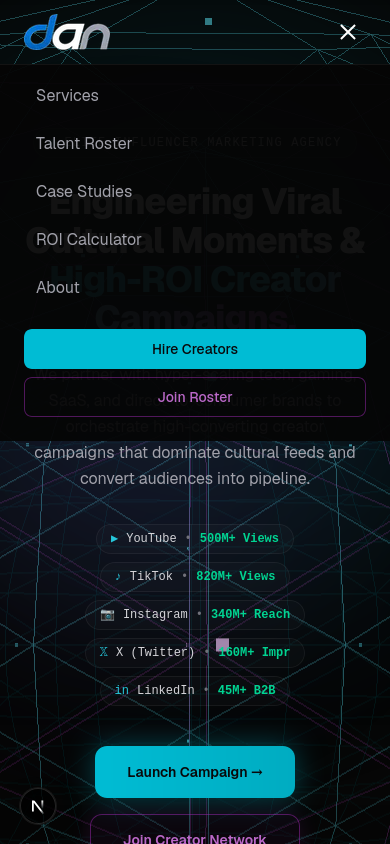
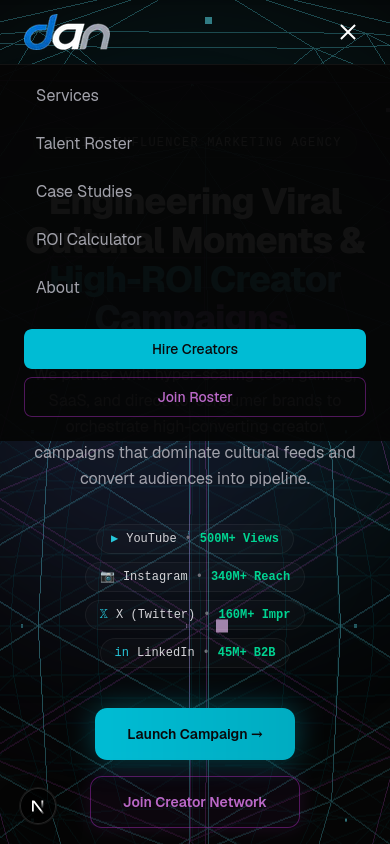
content: remove TikTok from all platform references, forms, and copy

diff --git a/src/components/CreatorApplicationModal.tsx b/src/components/CreatorApplicationModal.tsx
@@ -23,7 +23,6 @@ export default function CreatorApplicationModal({ isOpen, onClose }: CreatorAppl
     instagram: "",
     x: "",
     linkedin: "",
-    tiktok: "",
     niche: "Tech & AI",
     audienceDemographics: "",
     mediaKitUrl: "",
@@ -59,7 +58,6 @@ export default function CreatorApplicationModal({ isOpen, onClose }: CreatorAppl
             instagram: formData.instagram || undefined,
             twitter: formData.x || undefined,
             linkedin: formData.linkedin || undefined,
-            tiktok: formData.tiktok || undefined,
           },
         }),
       });
@@ -263,20 +261,6 @@ export default function CreatorApplicationModal({ isOpen, onClose }: CreatorAppl
                           />
                         </div>
                         <div>
-                          <label htmlFor="creator-tiktok" className="text-xs font-semibold text-gray-300 mb-1 block">TikTok Handle</label>
-                          <input
-                            id="creator-tiktok"
-                            type="text"
-                            placeholder="@handle"
-                            value={formData.tiktok}
-                            onChange={(e) => handleChange("tiktok", e.target.value)}
-                            className={inputClasses}
-                          />
-                        </div>
-                      </div>
-
-                      <div className="grid gap-3 sm:grid-cols-2">
-                        <div>
                           <label htmlFor="creator-instagram" className="text-xs font-semibold text-gray-300 mb-1 block">Instagram Profile</label>
                           <input
                             id="creator-instagram"
@@ -287,6 +271,9 @@ export default function CreatorApplicationModal({ isOpen, onClose }: CreatorAppl
                             className={inputClasses}
                           />
                         </div>
+                      </div>
+
+                      <div className="grid gap-3 sm:grid-cols-2">
                         <div>
                           <label htmlFor="creator-x" className="text-xs font-semibold text-gray-300 mb-1 block">X / Twitter Handle</label>
                           <input
@@ -298,18 +285,17 @@ export default function CreatorApplicationModal({ isOpen, onClose }: CreatorAppl
                             className={inputClasses}
                           />
                         </div>
-                      </div>
-
-                      <div>
-                        <label htmlFor="creator-linkedin" className="text-xs font-semibold text-gray-300 mb-1 block">LinkedIn Profile (B2B Creators)</label>
-                        <input
-                          id="creator-linkedin"
-                          type="text"
-                          placeholder="linkedin.com/in/handle"
-                          value={formData.linkedin}
-                          onChange={(e) => handleChange("linkedin", e.target.value)}
-                          className={inputClasses}
-                        />
+                        <div>
+                          <label htmlFor="creator-linkedin" className="text-xs font-semibold text-gray-300 mb-1 block">LinkedIn Profile (B2B Creators)</label>
+                          <input
+                            id="creator-linkedin"
+                            type="text"
+                            placeholder="linkedin.com/in/handle"
+                            value={formData.linkedin}
+                            onChange={(e) => handleChange("linkedin", e.target.value)}
+                            className={inputClasses}
+                          />
+                        </div>
                       </div>
 
                       <div className="flex gap-3 pt-2">

diff --git a/src/components/CampaignShowcase.tsx b/src/components/CampaignShowcase.tsx
@@ -30,7 +30,7 @@ const campaigns: Campaign[] = [
     category: "Gaming & Esports",
     creatorFleet: "28 Top Gaming Streamers & YouTubers",
     headline: "Season Launch Creator Takeover",
-    deliverables: ["Dedicated YouTube Integrations", "Twitch Drops Activation", "TikTok Sound Trend Blitz"],
+    deliverables: ["Dedicated YouTube Integrations", "Twitch Drops Activation", "Reels Sound Trend Blitz"],
     results: {
       roas: "+420% ROAS",
       impressions: "18.4M Organic Views",
@@ -40,7 +40,7 @@ const campaigns: Campaign[] = [
     thumbnail: "https://images.unsplash.com/photo-1542751371-adc38448a05e?w=800&h=500&fit=crop",
     overview:
       "Orchestrated a synchronized 48-hour launch blitz across 28 tier-1 gaming creators. By combining custom Twitch Drops with dedicated YouTube gameplay deep dives, we drove unprecedented viral velocity and record player acquisition.",
-    platforms: ["YouTube", "Twitch", "TikTok"],
+    platforms: ["YouTube", "Twitch", "Instagram"],
   },
   {
     id: 2,
@@ -76,25 +76,25 @@ const campaigns: Campaign[] = [
     thumbnail: "https://images.unsplash.com/photo-1563986768609-322da13575f3?w=800&h=500&fit=crop",
     overview:
       "Replaced generic promo reads with bespoke narrative-driven sketches tailored to each creator's unique audience lore. Resulted in a 4.2x higher click-through rate compared to industry benchmarks.",
-    platforms: ["YouTube", "Instagram", "TikTok"],
+    platforms: ["YouTube", "Instagram", "LinkedIn"],
   },
   {
     id: 4,
     brand: "Notion",
     category: "Productivity & AI SaaS",
     creatorFleet: "35 Aesthetic & Workspace Creators",
-    headline: "TikTok & Reels Workspace Aesthetic Blitz",
+    headline: "Reels Workspace Aesthetic Blitz",
     deliverables: ["Template Distribution Blitz", "Before/After Workflow Reels", "UGC Spark Ads Whitelisting"],
     results: {
       roas: "+490% Attributed ROAS",
       impressions: "31.2M Video Views",
       conversions: "94,000 Template Downloads",
-      highlight: "Top 3 Most Shared Productivity App on TikTok",
+      highlight: "Top 3 Most Shared Productivity App on Instagram",
     },
     thumbnail: "https://images.unsplash.com/photo-1499750310107-5fef28a66643?w=800&h=500&fit=crop",
     overview:
       "Tapped into the 'aesthetic desk setup' cultural trend. Creators shared downloadable Notion life-organizer templates directly in bio links, converting casual scrollers into lifetime software subscribers.",
-    platforms: ["TikTok", "Instagram", "YouTube"],
+    platforms: ["Instagram", "LinkedIn", "YouTube"],
   },
   {
     id: 5,
@@ -111,8 +111,8 @@ const campaigns: Campaign[] = [
     },
     thumbnail: "https://images.unsplash.com/photo-1517838277536-f5f99be501cd?w=800&h=500&fit=crop",
     overview:
-      "Timed exclusive athlete capsule codes across 20 high-energy fitness creators on Instagram and TikTok right at the drop hour. Created an online frenzy that generated over $2.4M in tracked revenue within 24 hours.",
-    platforms: ["Instagram", "TikTok", "YouTube"],
+      "Timed exclusive athlete capsule codes across 20 high-energy fitness creators on Instagram and YouTube right at the drop hour. Created an online frenzy that generated over $2.4M in tracked revenue within 24 hours.",
+    platforms: ["Instagram", "LinkedIn", "YouTube"],
   },
 ];
 

diff --git a/src/app/layout.tsx b/src/app/layout.tsx
@@ -18,10 +18,10 @@ export const metadata: Metadata = {
     template: "%s | DAN SERVICES",
     default: "DAN SERVICES | Engineering Viral Cultural Moments & High-ROI Creator Campaigns",
   },
-  description: "DAN SERVICES is an elite, full-service Influencer Marketing Agency specializing in high-converting campaigns across YouTube, Instagram, X (Twitter), LinkedIn, and TikTok.",
+  description: "DAN SERVICES is an elite, full-service Influencer Marketing Agency specializing in high-converting campaigns across YouTube, Instagram, X (Twitter), and LinkedIn.",
   openGraph: {
     title: "DAN SERVICES | Engineering Viral Cultural Moments & High-ROI Creator Campaigns",
-    description: "DAN SERVICES is an elite, full-service Influencer Marketing Agency specializing in high-converting campaigns across YouTube, Instagram, X (Twitter), LinkedIn, and TikTok.",
+    description: "DAN SERVICES is an elite, full-service Influencer Marketing Agency specializing in high-converting campaigns across YouTube, Instagram, X (Twitter), and LinkedIn.",
     url: "https://www.danservices.in",
     siteName: "DAN SERVICES",
     images: [{ url: "/opengraph-image", width: 1200, height: 630, alt: "DAN SERVICES Logo" }],
@@ -34,7 +34,7 @@ const jsonLd = {
   name: "DAN SERVICES",
   url: "https://www.danservices.in",
   logo: "https://www.danservices.in/icon.png",
-  description: "DAN SERVICES is an elite, full-service Influencer Marketing Agency specializing in high-converting campaigns across YouTube, Instagram, X (Twitter), LinkedIn, and TikTok.",
+  description: "DAN SERVICES is an elite, full-service Influencer Marketing Agency specializing in high-converting campaigns across YouTube, Instagram, X (Twitter), and LinkedIn.",
   contactPoint: {
     "@type": "ContactPoint",
     contactType: "Customer Service",

diff --git a/src/components/ROICalculator.tsx b/src/components/ROICalculator.tsx
@@ -11,7 +11,7 @@ interface ROICalculatorProps {
 // references and does not need them as dependencies.
 const platformOptions = [
   { label: "YouTube", value: "youtube", icon: "▶" },
-  { label: "TikTok", value: "tiktok", icon: "♪" },
+  
   { label: "Instagram", value: "instagram", icon: "📷" },
   { label: "X / Twitter", value: "x", icon: "𝕏" },
   { label: "LinkedIn", value: "linkedin", icon: "in" },
@@ -35,7 +35,7 @@ const goalOptions = [
 export default function ROICalculator({ className = "" }: ROICalculatorProps) {
   const { openBrandModal } = useLeadModals();
   const [budget, setBudget] = useState(35000);
-  const [platforms, setPlatforms] = useState<string[]>(["youtube", "tiktok"]);
+  const [platforms, setPlatforms] = useState<string[]>(["youtube", "instagram"]);
   const [niche, setNiche] = useState<string>("saas");
   const [goal, setGoal] = useState<string>("sales");
 
@@ -45,7 +45,6 @@ export default function ROICalculator({ className = "" }: ROICalculatorProps) {
     const platformFactor = platforms.reduce((acc, p) => {
       switch (p) {
         case "youtube": return acc + 1.6;
-        case "tiktok": return acc + 2.1;
         case "instagram": return acc + 1.4;
         case "x": return acc + 1.0;
         case "linkedin": return acc + 0.85;

diff --git a/src/components/TalentRoster.tsx b/src/components/TalentRoster.tsx
@@ -44,7 +44,7 @@ const creators: Creator[] = [
     avatar: "https://images.unsplash.com/photo-1517841905240-472988babdf9?w=300&h=300&fit=crop&crop=faces",
     verified: true,
     platforms: [
-      { name: "TikTok", followers: "2.8M" },
+      
       { name: "Instagram", followers: "1.9M" },
     ],
     niche: "D2C & Lifestyle",
@@ -92,7 +92,7 @@ const creators: Creator[] = [
     avatar: "https://images.unsplash.com/photo-1500648767791-00dcc994a43e?w=300&h=300&fit=crop&crop=faces",
     verified: true,
     platforms: [
-      { name: "TikTok", followers: "3.6M" },
+      
       { name: "YouTube", followers: "1.8M" },
     ],
     niche: "Gaming",
@@ -109,7 +109,7 @@ const creators: Creator[] = [
     verified: true,
     platforms: [
       { name: "Instagram", followers: "2.4M" },
-      { name: "TikTok", followers: "1.6M" },
+      
     ],
     niche: "D2C & Lifestyle",
     engagementRate: 6.9,
@@ -152,7 +152,7 @@ export default function TalentRoster({ className = "" }: TalentRosterProps) {
     { label: "YouTube", value: "youtube" },
     { label: "Instagram", value: "instagram" },
     { label: "X / LinkedIn", value: "x" },
-    { label: "TikTok", value: "tiktok" },
+
   ];
 
   const nicheButtons = [

diff --git a/src/app/about/page.tsx b/src/app/about/page.tsx
@@ -23,7 +23,7 @@ export default function AboutPage() {
               </span>
             </h1>
             <p className="text-lg text-gray-400 max-w-3xl leading-relaxed">
-              DAN SERVICES is an elite, full-service Influencer Marketing Agency specializing in high-converting, high-impact campaigns across YouTube, TikTok, Instagram, X (Twitter), and LinkedIn.
+              DAN SERVICES is an elite, full-service Influencer Marketing Agency specializing in high-converting, high-impact campaigns across YouTube, Instagram, X (Twitter), and LinkedIn.
             </p>
           </div>
 
@@ -47,7 +47,7 @@ export default function AboutPage() {
                 },
                 {
                   title: "Algorithmic Velocity",
-                  desc: "We engineer release schedules to trigger YouTube and TikTok recommendation engines simultaneously, maximizing organic secondary lift.",
+                  desc: "We engineer release schedules to trigger YouTube recommendation engines with coordinated Reels drops simultaneously, maximizing organic secondary lift.",
                   icon: "⚡",
                 },
                 {

diff --git a/src/components/SiteFooter.tsx b/src/components/SiteFooter.tsx
@@ -31,7 +31,7 @@ export default function SiteFooter() {
               <Image src="/brand/dan-logo-dark.png" alt="dan" width={86} height={36} className="h-9 w-auto" />
             </div>
             <p className="text-sm text-gray-400 leading-relaxed max-w-sm">
-              Engineering viral cultural moments & high-ROI creator campaigns across YouTube, Instagram, X (Twitter), LinkedIn, and TikTok.
+              Engineering viral cultural moments & high-ROI creator campaigns across YouTube, Instagram, X (Twitter), and LinkedIn.
             </p>
             <div className="flex items-center gap-3 pt-2 text-xs font-mono text-gray-400">
               <span>NEW YORK</span>

diff --git a/src/components/Hero.tsx b/src/components/Hero.tsx
@@ -62,7 +62,6 @@ export default function Hero() {
   }, []);
   const platformBadges = [
     { platform: "YouTube", stat: "500M+ Views", icon: "▶", color: "hover:border-red-500/40" },
-    { platform: "TikTok", stat: "820M+ Views", icon: "♪", color: "hover:border-cyan-500/40" },
     { platform: "Instagram", stat: "340M+ Reach", icon: "📷", color: "hover:border-pink-500/40" },
     { platform: "X (Twitter)", stat: "160M+ Impr", icon: "𝕏", color: "hover:border-white/40" },
     { platform: "LinkedIn", stat: "45M+ B2B", icon: "in", color: "hover:border-blue-500/40" },

diff --git a/src/app/services/page.tsx b/src/app/services/page.tsx
@@ -4,7 +4,7 @@ import ServicesGrid from "@/components/ServicesGrid";
 
 export const metadata: Metadata = {
   title: "Services",
-  description: "Full-service influencer marketing capabilities: YouTube sponsorships, TikTok/Reels blitzes, B2B thought leadership, performance UGC, FTC compliance, and ROAS telemetry.",
+  description: "Full-service influencer marketing capabilities: YouTube sponsorships, Reels blitzes, B2B thought leadership, performance UGC, FTC compliance, and ROAS telemetry.",
 };
 
 export default function ServicesPage() {

diff --git a/src/app/case-studies/page.tsx b/src/app/case-studies/page.tsx
@@ -4,7 +4,7 @@ import CampaignShowcase from "@/components/CampaignShowcase";
 
 export const metadata: Metadata = {
   title: "Case Studies",
-  description: "See how DAN SERVICES has helped brands achieve explosive growth through strategic creator partnerships across YouTube, TikTok, Instagram, X, and LinkedIn.",
+  description: "See how DAN SERVICES has helped brands achieve explosive growth through strategic creator partnerships across YouTube, Instagram, X, and LinkedIn.",
 };
 
 export default function CaseStudiesPage() {

diff --git a/src/lib/platforms.ts b/src/lib/platforms.ts
@@ -1,6 +1,6 @@
 // Canonical platform values used by the brand intake form's platform chips.
 // Must stay in sync with the labels rendered in BrandIntakeModal.
-export const PLATFORM_LABELS = ["YouTube", "TikTok", "Instagram", "X / Twitter", "LinkedIn"] as const;
+export const PLATFORM_LABELS = ["YouTube", "Instagram", "X / Twitter", "LinkedIn"] as const;
 
 export function platformValue(label: string): string {
   return label.toLowerCase().replace(/ \/ twitter/g, "");

diff --git a/src/components/PlatformMarquee.tsx b/src/components/PlatformMarquee.tsx
@@ -4,7 +4,6 @@ export default function PlatformMarquee() {
     { name: "Instagram", sub: "Reels & Stories", icon: "📷" },
     { name: "X / Twitter", sub: "Thought Leadership & Viral Threads", icon: "𝕏" },
     { name: "LinkedIn", sub: "B2B Creator Campaigns", icon: "in" },
-    { name: "TikTok", sub: "UGC & Spark Ads", icon: "♪" },
   ];
 
   // Exactly two copies: the marquee animation translates -50%, so the track
